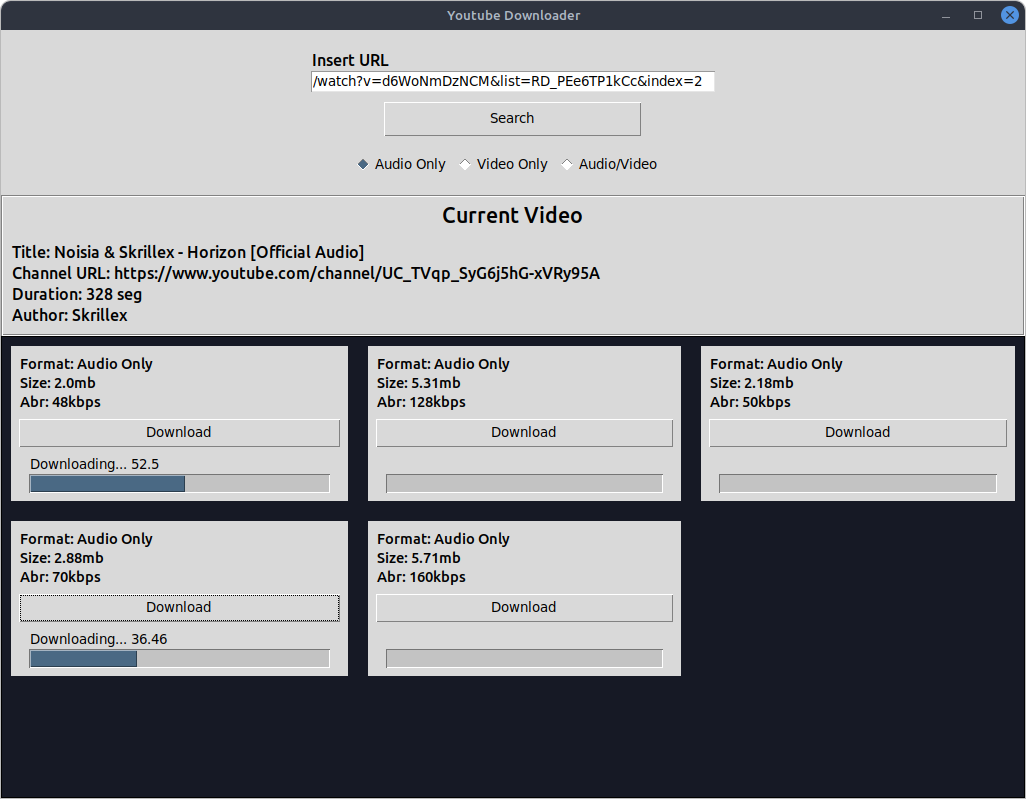
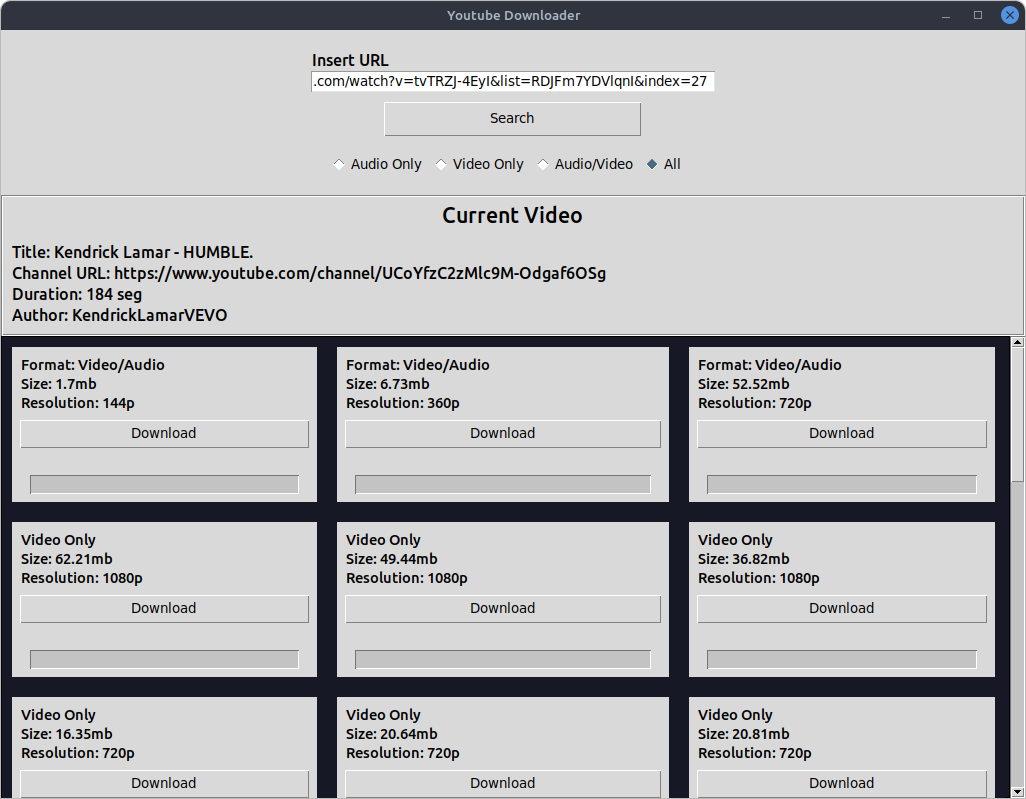
Added new filter to the option, added to canva frame

diff --git a/Components/CanvaFrame.py b/Components/CanvaFrame.py
@@ -8,6 +8,9 @@ from Components.StreamFrame import StreamFrame
 class CanvasFrame:
     def __init__(self,parent):
         self.__parent = Canvas(parent)
+        self.__scrollBar = ttk.Scrollbar(parent)        
+
+        self.__WidgetFrame = ttk.Frame(self.__parent)
 
         self.__setCanvas()
 
@@ -15,20 +18,63 @@ class CanvasFrame:
 
 
     def __setCanvas(self):
-        self.__parent.configure(background=dark_color)
-        self.__parent.columnconfigure(0,weight=1)
-        self.__parent.columnconfigure(1,weight=1)
-        self.__parent.columnconfigure(2,weight=1)
 
+        frame_style = ttk.Style()
+
+        frame_style.configure("WidgetFrame.TFrame",background=dark_color)
+
+
+        #setting the canvas config
+        self.__parent.configure(
+            background=dark_color,
+            yscrollcommand=self.__scrollBar.set
+        )
+
+        self.__parent.bind("<Configure>",self.__CanvaBind)
+
+
+        self.__parent.create_window(
+            (8,0),
+            window=self.__WidgetFrame,
+        )
+
+        self.__parent.columnconfigure(0,weight=1)
+
+
+        #setting the scrollbar config
+
+        self.__scrollBar.configure(orient=VERTICAL,command=self.__parent.yview)
+
+
+        #setting the widget frame
+
+        self.__WidgetFrame.configure(style="WidgetFrame.TFrame")
+        self.__WidgetFrame.columnconfigure(0,weight=1)
+        self.__WidgetFrame.columnconfigure(1,weight=1)
+        self.__WidgetFrame.columnconfigure(2,weight=1)
+      
+
+    def __CanvaBind(self,e):
+        self.__WidgetFrame.configure(
+            width=self.__parent.winfo_width()-6,
+            height=self.__WidgetFrame.winfo_height()
+        )
+        self.__WidgetFrame.grid_propagate(0)
+        self.__parent.configure(scrollregion=self.__parent.bbox('all'))
+        
 
     def placeCanvas(self):
         self.__parent.grid(row=1,column=0,sticky=(N,E,W,S))
+        self.__scrollBar.grid(row=1,column=1,sticky=(N,S))
 
-    def placeStream(self,row,column):
-        pass
+
 
     @property 
     def Canvas(self):
         return self.__parent
+
+    @property
+    def WidgetFrame(self):
+        return self.__WidgetFrame
 
         

diff --git a/App.py b/App.py
@@ -78,6 +78,9 @@ class App:
 
     def __setBottom(self):
         self.__bottom.placeParent()
+        #self.__bottom.VideoFrame.placeWidgets()
+        #self.__bottom.CanvasFrame.placeCanvas()
+       
         
 
     def __searchButtonCallBack(self):
@@ -124,6 +127,8 @@ class App:
                 streams = yt.streams.filter(only_video=True)
             elif(self.__search_frame.FilterValue == "Progressive"):
                 streams = yt.streams.filter(progressive=True)
+            elif(self.__search_frame.FilterValue == "All"):
+                streams = yt.streams
 
             self.__ListStreams(streams)
             
@@ -151,7 +156,7 @@ class App:
             if column == 3:
                 column = 0
                 row+=1
-            stream_frame = StreamFrame(self.__bottom.CanvasFrame.Canvas)
+            stream_frame = StreamFrame(self.__bottom.CanvasFrame.WidgetFrame)
             if stream.is_progressive:
                 stream_frame.Format.configure(text="Format: Video/Audio")
                 stream_frame.Quality.configure(text=f"Resolution: {stream.resolution}")
@@ -174,6 +179,7 @@ class App:
     
     
     def __ButtonCallBack(self,stream):
+        self.__current_streams[stream.itag]['stream_frame'].ProgressBar.step(101)
         self.__current_streams[stream.itag]['stream_frame'].ProgressBarLabel.configure(text="Downloading... 0.00%")
         Thread(target=self.__DownloadFile,args=(self.__current_streams[stream.itag]['stream'],)).start()
         
@@ -188,6 +194,7 @@ class App:
                 print(e)
                 print('...')
                 self.__current_streams[stream.itag]['OnDownload'] = False
+                self.__current_streams[stream.itag]['stream_frame'].ProgressBarLabel.configure(text="Download stoped, error.")
             else:
                 self.__current_streams[stream.itag]['OnDownload'] = False
 

diff --git a/Components/StreamFrame.py b/Components/StreamFrame.py
@@ -5,6 +5,9 @@ from tkinter import ttk
 
 class StreamFrame:
     def __init__(self,parent):
+
+        self.__root = parent
+
         self.__parent = ttk.Frame(parent)
 
         self.__stream_format = ttk.Label(self.__parent)
@@ -25,21 +28,19 @@ class StreamFrame:
 
 
     def __setStreamFrame(self):
-        self.__parent.rowconfigure(0,weight=1)
         self.__parent.columnconfigure(0,weight=1)
         self.__parent.configure(padding=8)
 
-        self.__stream_format.configure(font='Ubuntu 11',text="Hola")
-        self.__stream_size.configure(font='Ubuntu 11',text="Hola")
-        self.__stream_quality.configure(font="Ubuntu 11",text="Hola")
+
+        self.__stream_format.configure(font='Ubuntu 11')
+        self.__stream_size.configure(font='Ubuntu 11')
+        self.__stream_quality.configure(font="Ubuntu 11")
 
         self.__download_button.configure(text="Download")
 
 
         self.__stream_progress_bar_frame.columnconfigure(0,weight=1)
-        self.__stream_progress_bar_frame.rowconfigure(0,weight=1)
         self.__stream_progress_bar.configure(maximum=101,length=100,mode="determinate",orient=HORIZONTAL)
-
 
     def placeStream(self,row,column):
 
@@ -54,6 +55,12 @@ class StreamFrame:
         self.__stream_progress_bar_frame.grid(row=4,column=0,padx=10,pady=0,sticky=(E,W))
         self.__stream_progress.grid(row=0,column=0,sticky=(E,W))
         self.__stream_progress_bar.grid(row=1,column=0,sticky=(E,W))
+
+        
+
+
+        
+
 
 
     @property
@@ -76,3 +83,6 @@ class StreamFrame:
     @property
     def ProgressBarLabel(self):
         return self.__stream_progress   
+    @property
+    def Parent(self):
+        return self.__parent

diff --git a/Components/SearchFrame.py b/Components/SearchFrame.py
@@ -28,6 +28,7 @@ class SearchFrame:
         self.__search_audio_only_filter = ttk.Radiobutton(self.__search_radio_button_frame)
         self.__search_video_only_filter = ttk.Radiobutton(self.__search_radio_button_frame)
         self.__search_progressive_filter = ttk.Radiobutton(self.__search_radio_button_frame)
+        self.__search_all_filter = ttk.Radiobutton(self.__search_radio_button_frame)
 
 
         self.__search_frame_response_label = ttk.Label(self.__search_frame)
@@ -58,6 +59,7 @@ class SearchFrame:
         self.__search_audio_only_filter.configure(text="Audio Only",variable=self.__search_filter_variable,value="Audio")
         self.__search_video_only_filter.configure(text="Video Only",variable=self.__search_filter_variable,value="Video")
         self.__search_progressive_filter.configure(text="Audio/Video",variable=self.__search_filter_variable,value="Progressive")
+        self.__search_all_filter.configure(text="All",variable=self.__search_filter_variable,value="All")
 
 
     def placeWidgets(self):
@@ -77,6 +79,7 @@ class SearchFrame:
         self.__search_audio_only_filter.grid(row=0,column=0,padx=(0,10))
         self.__search_video_only_filter.grid(row=0,column=1,padx=(0,10))
         self.__search_progressive_filter.grid(row=0,column=2,padx=(0,10))
+        self.__search_all_filter.grid(row=0,column=3,padx=(0,10))
 
 
     def setResponse(self,response:str):

diff --git a/Components/BottomFrame.py b/Components/BottomFrame.py
@@ -4,7 +4,7 @@ from utils import dark_color
 
 from Components.VideoFrame import VideoFrame
 from Components.CanvaFrame import CanvasFrame
-
+from Components.StreamFrame import StreamFrame
 
 class BottomFrame:
     def __init__(self,parent):
@@ -12,16 +12,20 @@ class BottomFrame:
         self.__setParent()
         self.__videoFrame = VideoFrame(self.__parent)
         self.__canvasFrame = CanvasFrame(self.__parent)
-
+      
     def __setParent(self):
 
         parent_style = ttk.Style()
         parent_style.configure("Bottom.TFrame",background=dark_color)
-        self.__parent.configure(padding=0,style='Bottom.TFrame')
+        self.__parent.configure(style='Bottom.TFrame')
 
         self.__parent.columnconfigure(0,weight=1)
         self.__parent.rowconfigure(1,weight=1)
 
+  
+
+      
+        
 
     def placeParent(self):
         self.__parent.grid(row=1,column=0,sticky=(N,E,W,S))
@@ -30,9 +34,6 @@ class BottomFrame:
     def removeChildsFrames(self):
         self.__videoFrame.Parent.grid_remove()
         self.__canvasFrame.Canvas.grid_remove()
-
-
-   
 
 
     @property

diff --git a/Components/VideoFrame.py b/Components/VideoFrame.py
@@ -39,7 +39,7 @@ class VideoFrame:
         self.__video_author.configure(style='Video.TLabel',text="Author")
 
     def placeWidgets(self):
-        self.__parent.grid(row=0,column=0,sticky=(N,E,W))
+        self.__parent.grid(row=0,column=0,sticky=(N,E,W),columnspan=2)
 
         self.__header.grid(row=0,column=0,padx=5,pady=5)
 
